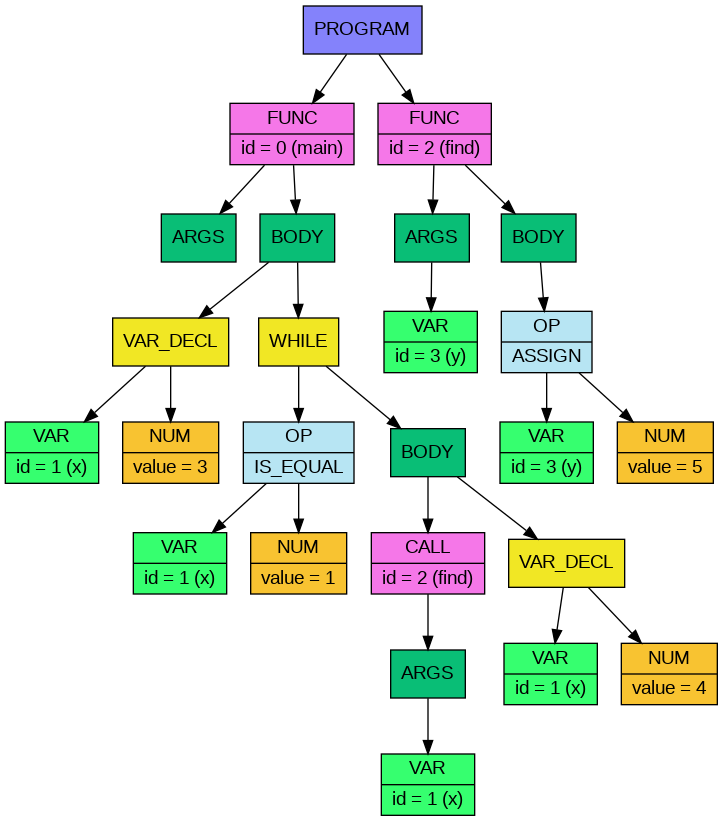
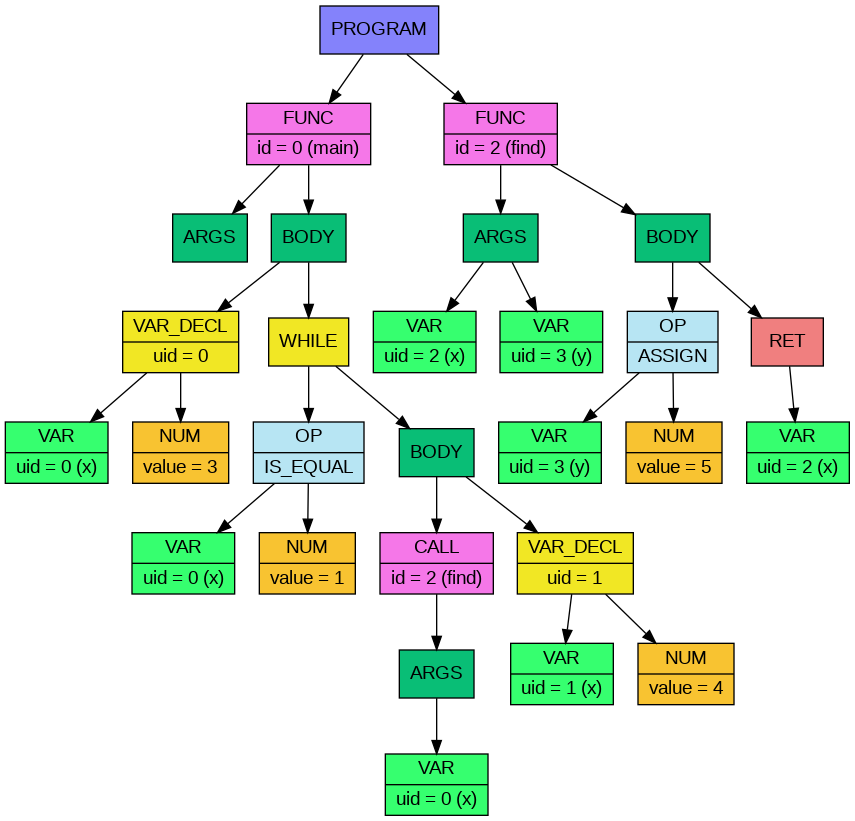
Finish scope analysis, add unique variable resolution

Changed region(s): [[0.0, 0.0, 1.0, 1.0]]

diff --git a/front_end/source/build_scopes.c b/front_end/source/build_scopes.c
@@ -5,6 +5,8 @@
 #include "front_end.h"
 #include "build_scopes.h"
 
+static int var_unique_id = 0;
+
 void enter_scope(scope_t** current)
 {
     assert(current);
@@ -72,6 +74,7 @@ error_code declare_var(scope_t* current, const char* var_name, int decl_id, node
 
     decl_var->name = var_name;
     decl_var->decl_id = decl_id;
+    decl_var->unique_id = var_unique_id++;
     decl_var->decl_node = decl_node;
 
     decl_var->next = current->decl_var;
@@ -152,6 +155,8 @@ error_code build_scopes(node_t* tree, const identifier_t* const identifiers)
     if (!tree) return TREE_NULLPTR;
     if (tree->kind != NODE_PROG) return PROG_NODE_ERROR;
 
+    var_unique_id = 0;
+
     scope_t* prog_scope = (scope_t*) calloc(1, sizeof(scope_t));
     assert(prog_scope);
 
@@ -197,13 +202,17 @@ error_code analyze_func(node_t* func_node, scope_t* parent, const identifier_t* 
 
     for (size_t i = 0; i < func_node->children[0]->child_count; i++)
     {
-        error_code error =  declare_var(func_scope, identifiers[func_node->children[0]->children[i]->data_t.id_number].name,
-                                        func_node->children[0]->children[i]->data_t.id_number, func_node->children[0]->children[i]);
+        node_t* param_node = func_node->children[0]->children[i];
+        int param_id = param_node->data_t.id_number;
+
+        error_code error =  declare_var(func_scope, identifiers[param_id].name, param_id, param_node);
         if (error) 
         {
             destroy_scope(func_scope);
             return error;
         }
+
+        param_node->unique_id = func_scope->decl_var->unique_id;
     }
 
     error_code block_error = analyze_block(func_node->children[1], func_scope, identifiers);
@@ -354,6 +363,9 @@ error_code analyze_var_decl(node_t* var_decl_node, scope_t* current, const ident
     error_code var_decl_error = declare_var(current, identifiers[var_id].name, var_id, var_decl_node);
     if (var_decl_error) return var_decl_error;
 
+    var_node->unique_id = current->decl_var->unique_id;
+    var_decl_node->unique_id = current->decl_var->unique_id;
+
     if (var_decl_node->child_count > 1)
     {
         error_code expr_error = analyze_expr(var_decl_node->children[1], current, identifiers);
@@ -371,13 +383,18 @@ error_code analyze_expr(node_t* expr_node, scope_t* current, const identifier_t*
 
     switch(expr_node->kind)
     {
-        case NODE_NUM: 
+        case NODE_NUM:
             return NO_ERROR;
 
-        case NODE_VAR: 
-            if (!seek_var(current, expr_node->data_t.id_number))
+        case NODE_VAR:
+        {
+            var_decl_t* var_decl = seek_var(current, expr_node->data_t.id_number);
+            if (!var_decl)
                 return UNDECLARED_VARIABLE;
+
+            expr_node->unique_id = var_decl->unique_id;
             return NO_ERROR;
+        }
 
         case NODE_OP:
             for (size_t i = 0; i < expr_node->child_count; i++)

diff --git a/tree/tree_dump/tree_dump.c b/tree/tree_dump/tree_dump.c
@@ -69,8 +69,12 @@ void tree_dump(node_t* const node, const char* const png_file_name, const identi
                 break;
 
             case NODE_VAR:
-                fprintf(txt_file, " | <val> id = %d (%s)}\", style=filled, fillcolor=\"#36ff6fff\"];\n",
-                        current->data_t.id_number, identifiers ? identifiers[current->data_t.id_number].name : "UNKNOWN");
+                fprintf(txt_file, " | <val> uid = %d (%s)}\", style=filled, fillcolor=\"#36ff6fff\"];\n",
+                        current->unique_id, identifiers ? identifiers[current->data_t.id_number].name : "UNKNOWN");
+                break;
+
+            case NODE_VAR_DECL:
+                fprintf(txt_file, " | <uid> uid = %d}\", style=filled, fillcolor = \"#f1e724ff\"];\n", current->unique_id);
                 break;
 
             case NODE_NUM:

diff --git a/front_end/source/node_functions.c b/front_end/source/node_functions.c
@@ -16,6 +16,7 @@ node_t* create_node(node_kind kind, data_union data)
 
     node->kind = kind;
     node->data_t = data;
+    node->unique_id = -1;
     node->children = nullptr;
     node->child_count = 0;
     node->child_capacity = 0;

diff --git a/middle_end/source/simplifier.c b/middle_end/source/simplifier.c
@@ -123,6 +123,7 @@ node_t* copy_node(node_t* node)
     assert(new_node);
 
     new_node->kind = node->kind;
+    new_node->unique_id = node->unique_id;
 
     switch(new_node->kind)
     {

diff --git a/tree/tree.h b/tree/tree.h
@@ -83,6 +83,7 @@ struct node_t
 {
     node_kind kind;
     data_union data_t;
+    int unique_id;
     node_t** children;
     size_t child_count;
     size_t child_capacity;

diff --git a/front_end/headers/build_scopes.h b/front_end/headers/build_scopes.h
@@ -4,6 +4,7 @@ struct var_decl_t
 {
     const char* name;
     int decl_id;
+    int unique_id;
     node_t* decl_node;
     var_decl_t* next;
 };
